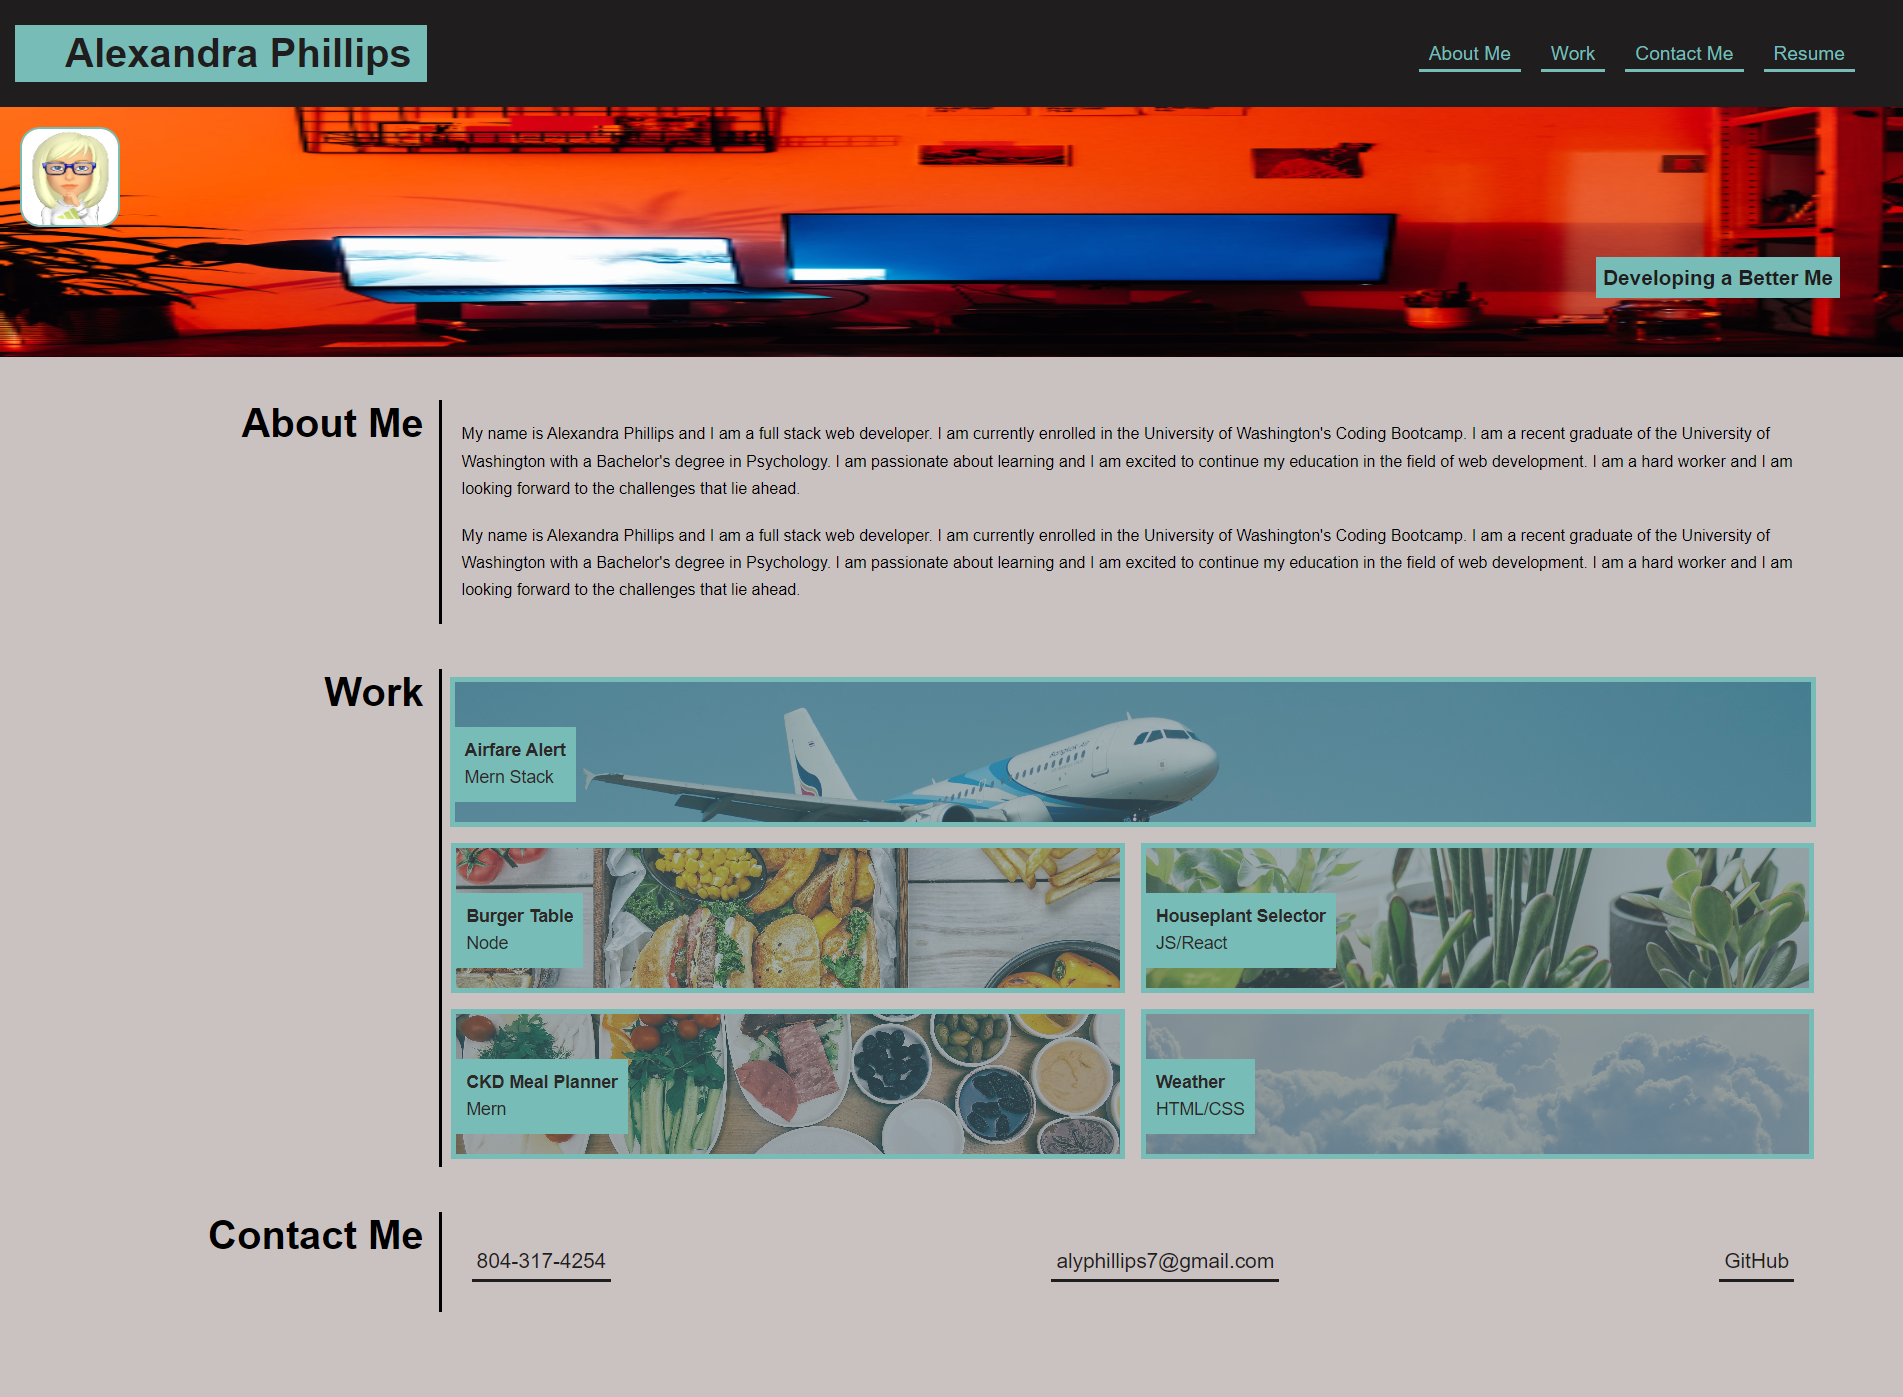
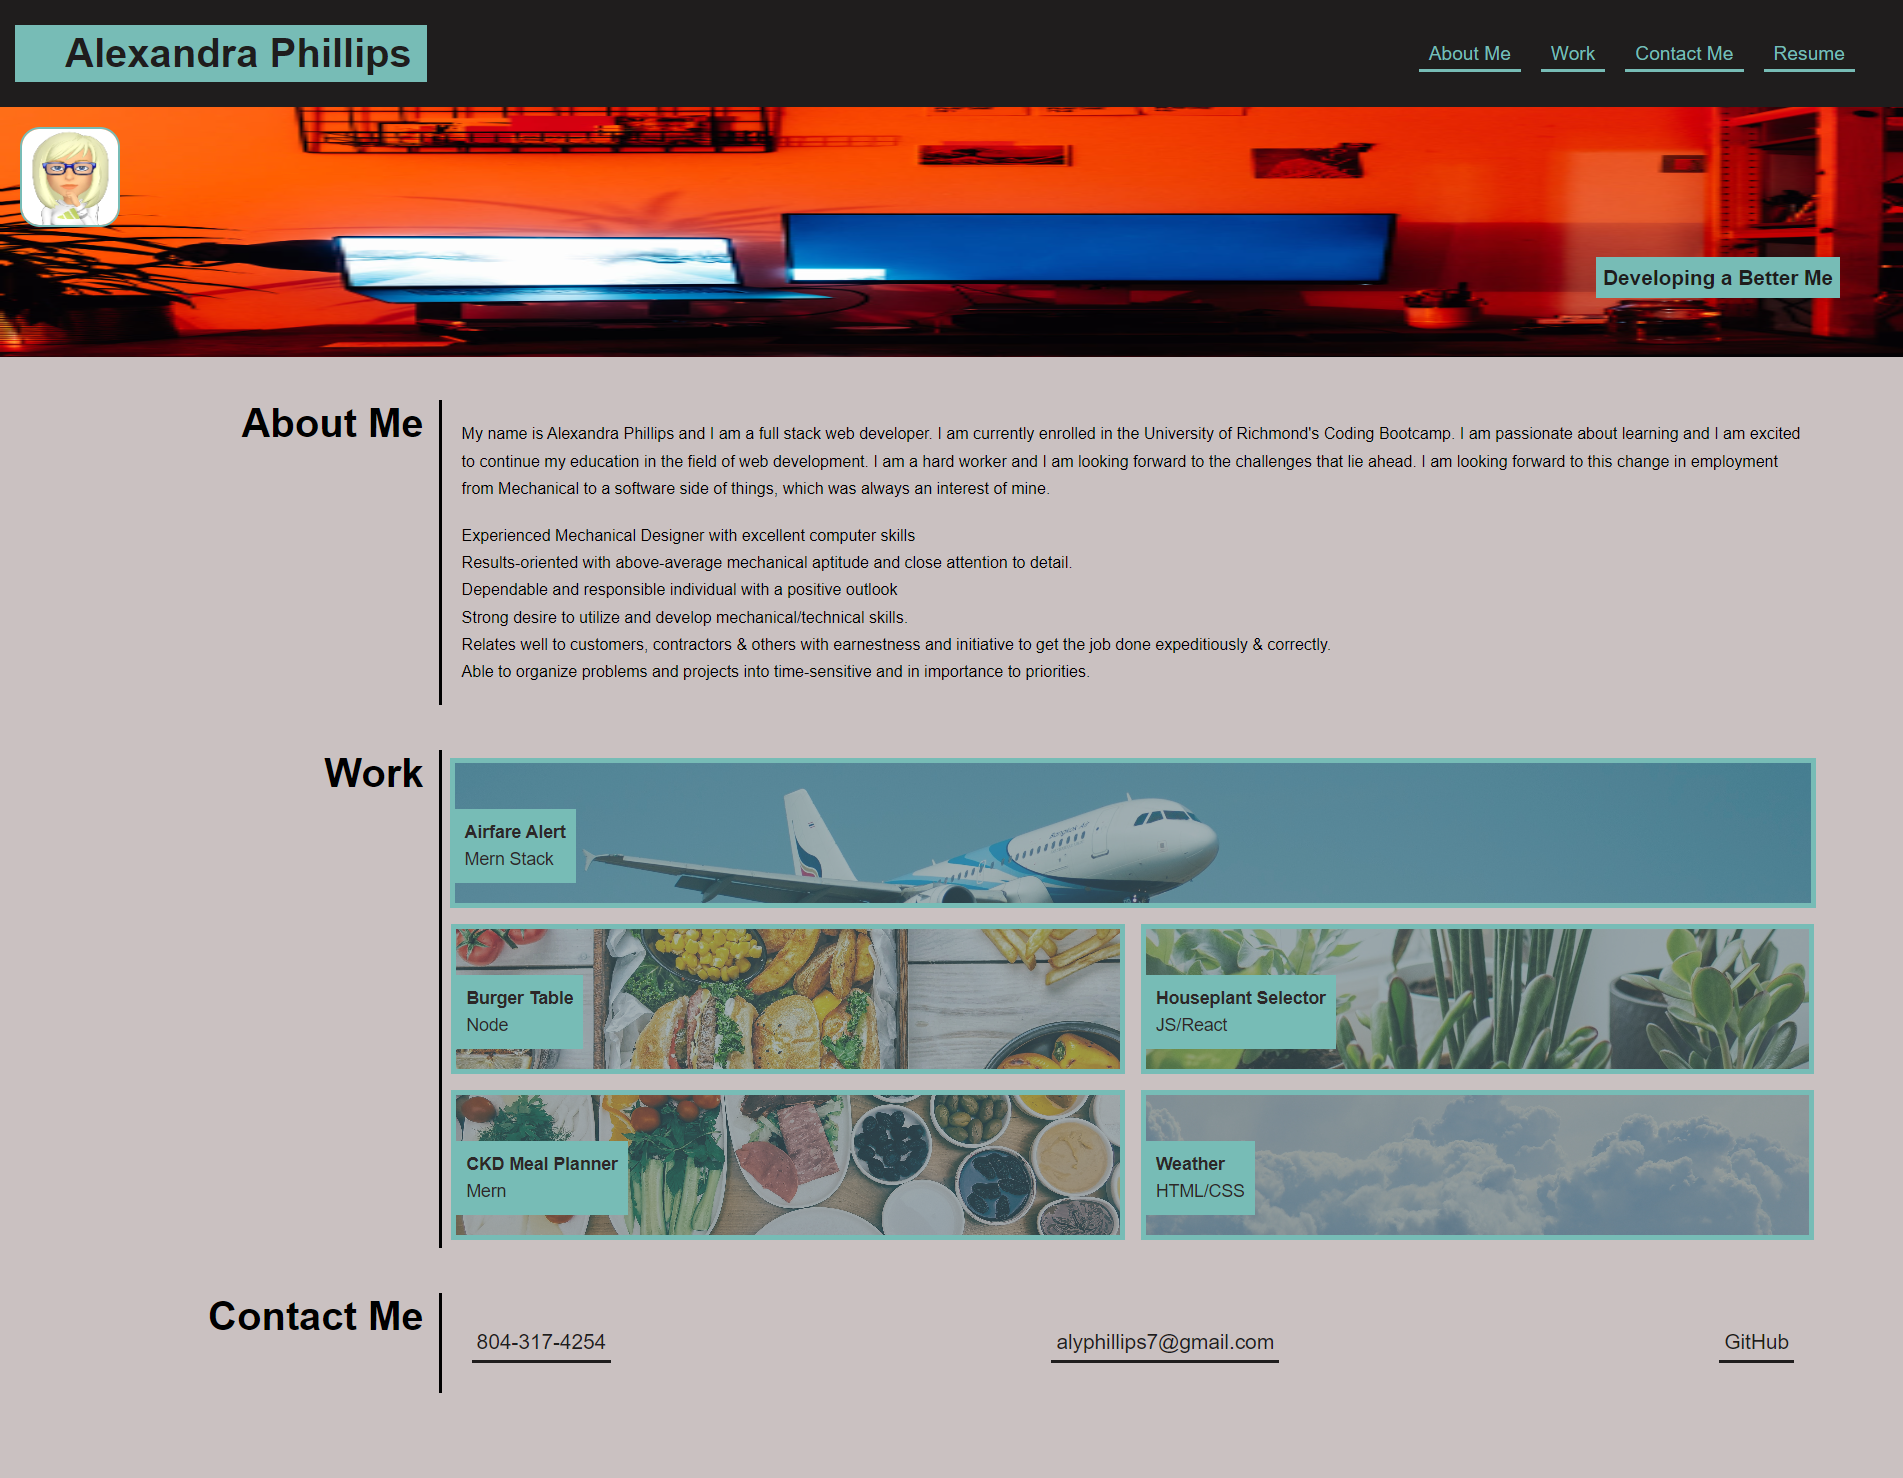
updated about me and screenshot

diff --git a/index.html b/index.html
@@ -39,8 +39,15 @@
             <section class="page-section" id="about">             
                 <h2>About Me</h2>                 
                 <div class="txt-small">
-                    <p>My name is Alexandra Phillips and I am a full stack web developer. I am currently enrolled in the University of Washington's Coding Bootcamp. I am a recent graduate of the University of Washington with a Bachelor's degree in Psychology. I am passionate about learning and I am excited to continue my education in the field of web development. I am a hard worker and I am looking forward to the challenges that lie ahead.</p>
-                    <p>My name is Alexandra Phillips and I am a full stack web developer. I am currently enrolled in the University of Washington's Coding Bootcamp. I am a recent graduate of the University of Washington with a Bachelor's degree in Psychology. I am passionate about learning and I am excited to continue my education in the field of web development. I am a hard worker and I am looking forward to the challenges that lie ahead.</p>
+                    <p>My name is Alexandra Phillips and I am a full stack web developer. I am currently enrolled in the University of Richmond's Coding Bootcamp. I am passionate about learning and I am excited to continue my education in the field of web development. I am a hard worker and I am looking forward to the challenges that lie ahead. I am looking forward to this change in employment from Mechanical to a software side of things, which was always an interest of mine.</p>
+                    <ul>
+                        <li>Experienced Mechanical Designer with excellent computer skills </li>
+                        <li>Results-oriented with above-average mechanical aptitude and close attention to detail. </li>
+                        <li>Dependable and responsible individual with a positive outlook </li>
+                        <li>Strong desire to utilize and develop mechanical/technical skills.  </li>
+                        <li>Relates well to customers, contractors & others with earnestness and initiative to get the job done expeditiously & correctly. </li>
+                        <li>Able to organize problems and projects into time-sensitive and in importance to priorities. </li>
+                    </ul>
                 </div>
             </section>
 

diff --git a/assets/css/style.css b/assets/css/style.css
@@ -140,7 +140,7 @@ nav ul {
     flex: 0 0 80%;
 }
 
-.page-section p {
+.page-section p, .page-section ul {
     margin: 20px;
 }
 
